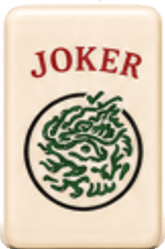
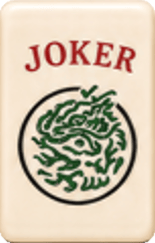
Trim every edge of the tiles, properly this time
Third pass, and the first one with a correct test. Topher: "the tile
still looks like it has a lip on bottom left."

My 5 Oct rule was wrong. I treated "the outermost pixel column is
transparent" as proof an edge was clean -- but that only meant the
neighbouring sliver had itself been alpha-masked at ITS outer edge. The
dragon's left edge read None, 241, 232, 210(seam), 238 -- a sliver, a
seam, then the real face. I called it clean.

Correct test: scan inward from each edge along three sample lines and
find the luminance MINIMUM. On a real edge the darkest pixel is at the
edge itself. A minimum sitting 2+ px in means there is something beyond
that seam which is not this tile.

Applied to all four edges of all three tiles, iterating, since trimming
one edge can expose another. joker -6 left -4 right -6 top; dragon
-4 left -3 top; two-wan -5 right. All twelve edges now verify clean.

Claude-Session: https://claude.ai/code/session_019QUH5BBDdTXvzWVFCncufZ

diff --git a/index.html b/index.html
@@ -51,9 +51,9 @@
 <header class="act hero page-top">
   <div class="hero-tiles reveal" role="img"
        aria-label="The three Mahjong tiles from the cover of Ancient Game. Modern Leadership. — the Joker, the red dragon, and the two of characters">
-    <img class="t-cover" src="assets/tile-joker.png" alt="" width="165" height="249" fetchpriority="high">
-    <img class="t-cover" src="assets/tile-dragon.png" alt="" width="159" height="247" fetchpriority="high">
-    <img class="t-cover" src="assets/tile-two-wan.png" alt="" width="167" height="250" fetchpriority="high">
+    <img class="t-cover" src="assets/tile-joker.png" alt="" width="155" height="243" fetchpriority="high">
+    <img class="t-cover" src="assets/tile-dragon.png" alt="" width="155" height="244" fetchpriority="high">
+    <img class="t-cover" src="assets/tile-two-wan.png" alt="" width="162" height="250" fetchpriority="high">
   </div>
   <h1 class="reveal d1">Ancient Game.<br><span class="g">Modern Leadership.</span></h1>
   <p class="hook reveal d2">What can an ancient tile game teach today's leaders? <em>More than you might imagine.</em></p>
